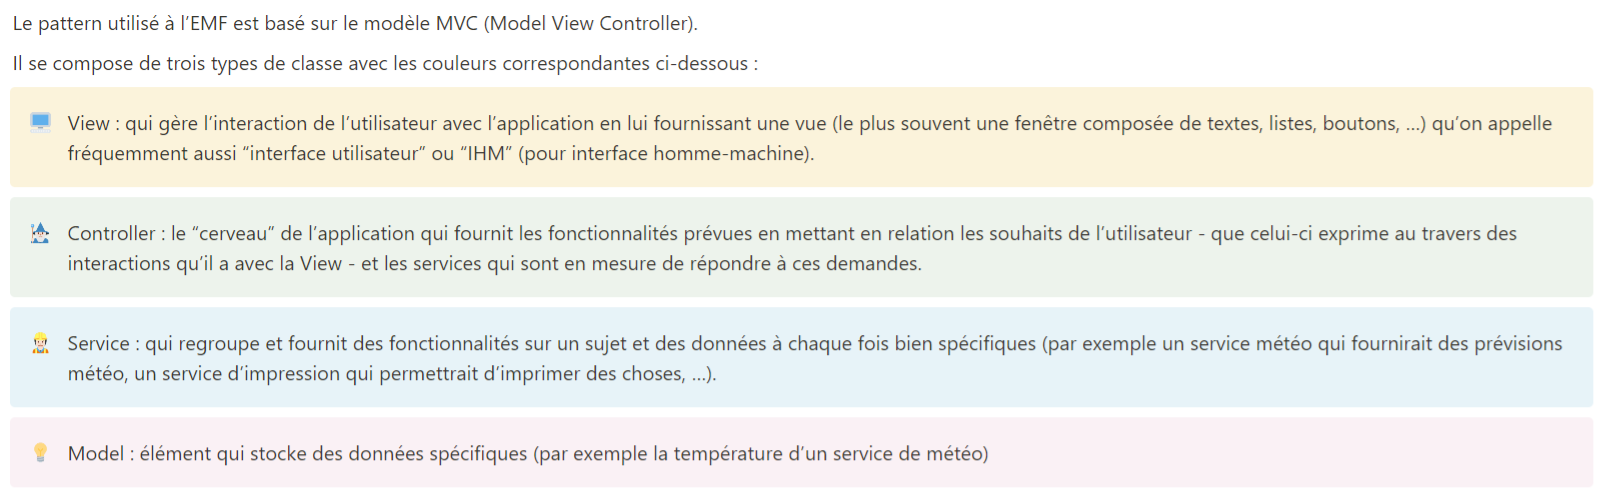
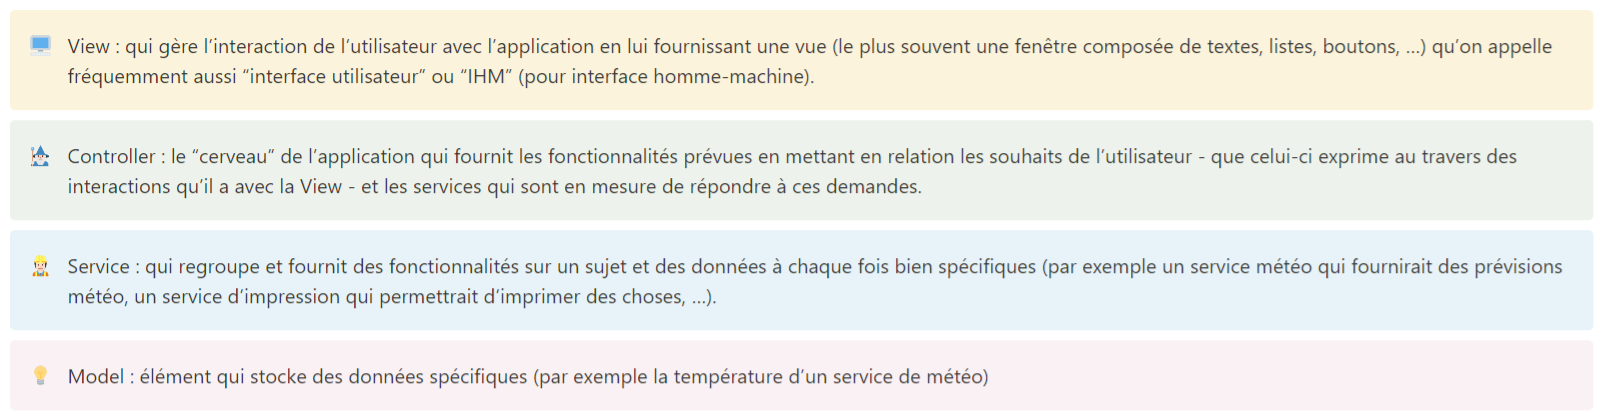
corrections mineurs (accents dans les noms de méthodes)

diff --git a/THEORIE_2-Pattern-MVC.md b/THEORIE_2-Pattern-MVC.md
@@ -7,7 +7,12 @@ Vous avez déjà étudié ce pattern au module D400. Mais nous allons reprendre 
 
 ## Pattern MVC sans utilisation d'interfaces (comme au D400)
 
+Le pattern utilisé à l'EMF est basé sur le modèle MVC (Model View Controller).
+
+Il se compose de quatre types de classe avec les couleurs correspondantes ci-dessous:
+
 <img src="doc/img/MVC_explications.png" alt="Explication MVC" />
+
 <img src="doc/img/MVC_D400_basic.png" alt="Explication MVC" width="600"/>
 
 ### Analyse des principes POO appliqués par ce pattern
@@ -39,7 +44,7 @@ Comme ce schéma UML le montre bien :
 - La classe `Controller` possède un attribut `view` de type `View` afin pouvoir lui demander d'afficher des choses.
 - La classe `View` possède un attribut `controller` de type `Controller` afin de pouvoir communiquer avec son contrôleur, par exemple pour lui dire que l'utilisateur souhaite telle ou telle action (bouton).
 
- On observe un couplage fort entre ces deux classe car elles sont interdépendantes. En effet, dans l'implémentation, chaque classe devra connaître le type de l'autre classe (import) et chaque modification de signatures des méthodes aura un impact sur l'autre classe.
+ On observe un couplage **fort** entre ces deux classe car elles sont interdépendantes. En effet, dans l'implémentation, chaque classe devra connaître le type de l'autre classe (import) et chaque modification de signatures des méthodes aura un impact sur l'autre classe.
 
 #### La réutilisabilité
 

diff --git a/THEORIE_4-UML-Mermaid.md b/THEORIE_4-UML-Mermaid.md
@@ -51,7 +51,7 @@ Pour utiliser Mermaid dans un document Markdown, il suffit de délimiter votre d
 
     class Comportement {
         <<interface>>
-        + seDéplacer() : void
+        + seDeplacer() : void
     }
 
 ```mermaid
@@ -59,7 +59,7 @@ Pour utiliser Mermaid dans un document Markdown, il suffit de délimiter votre d
     classDiagram  
     class Comportement {
         <<interface>>
-        + seDéplacer() : void
+        + seDeplacer() : void
     }
 ```
 
@@ -96,17 +96,17 @@ classDiagram
     class Animal {
         - espece : String
         + getEspece() : String
-        + seDéplacer() : void
+        + seDeplacer() : void
     }
 
     class Mammifere {
         - nombrePattes : int
-       + seDéplacer() : void
+       + seDeplacer() : void
     }
 
     class Poisson {
         - typeEau : String
-      + seDéplacer() : void
+      + seDeplacer() : void
     }
 
     class Zoo {
@@ -117,12 +117,12 @@ classDiagram
 
     class Comportement {
         <<interface>>
-        + seDéplacer() : void
+        + seDeplacer() : void
     }
 
     class Oiseau {
         - couleurPlumes : String
-      + seDéplacer() : void
+      + seDeplacer() : void
     }
 
     Animal <|-- Mammifere : hérite
